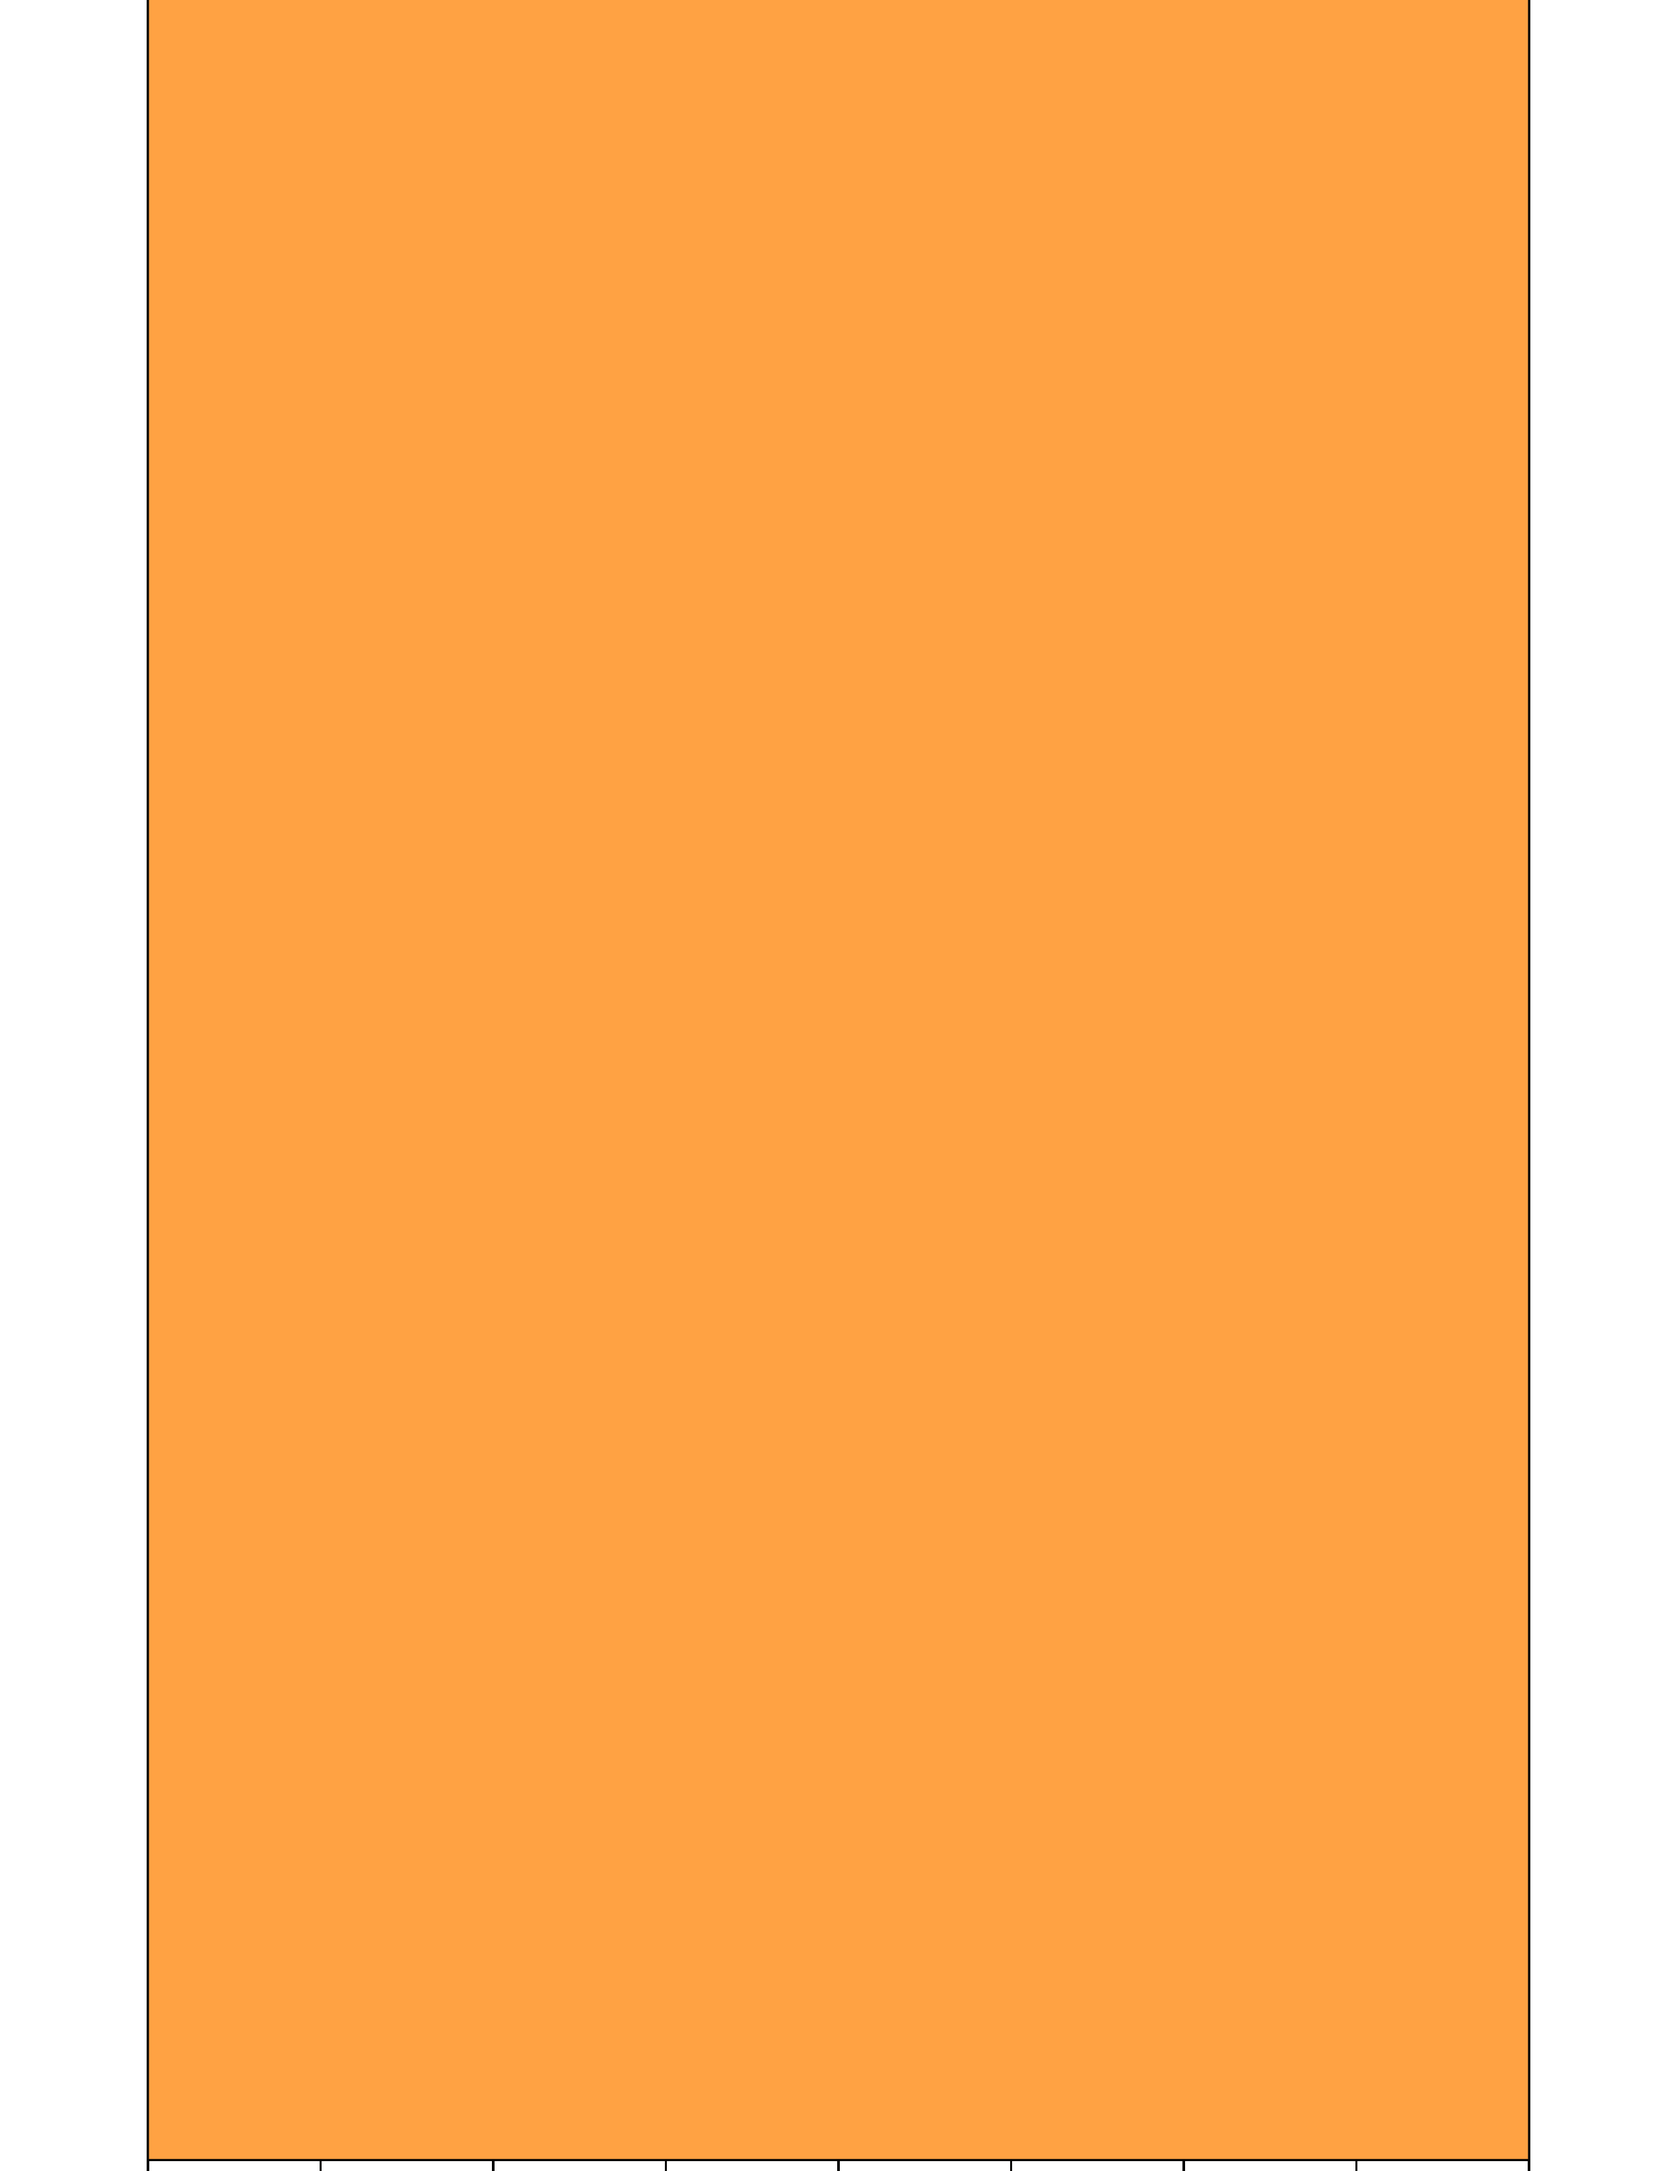
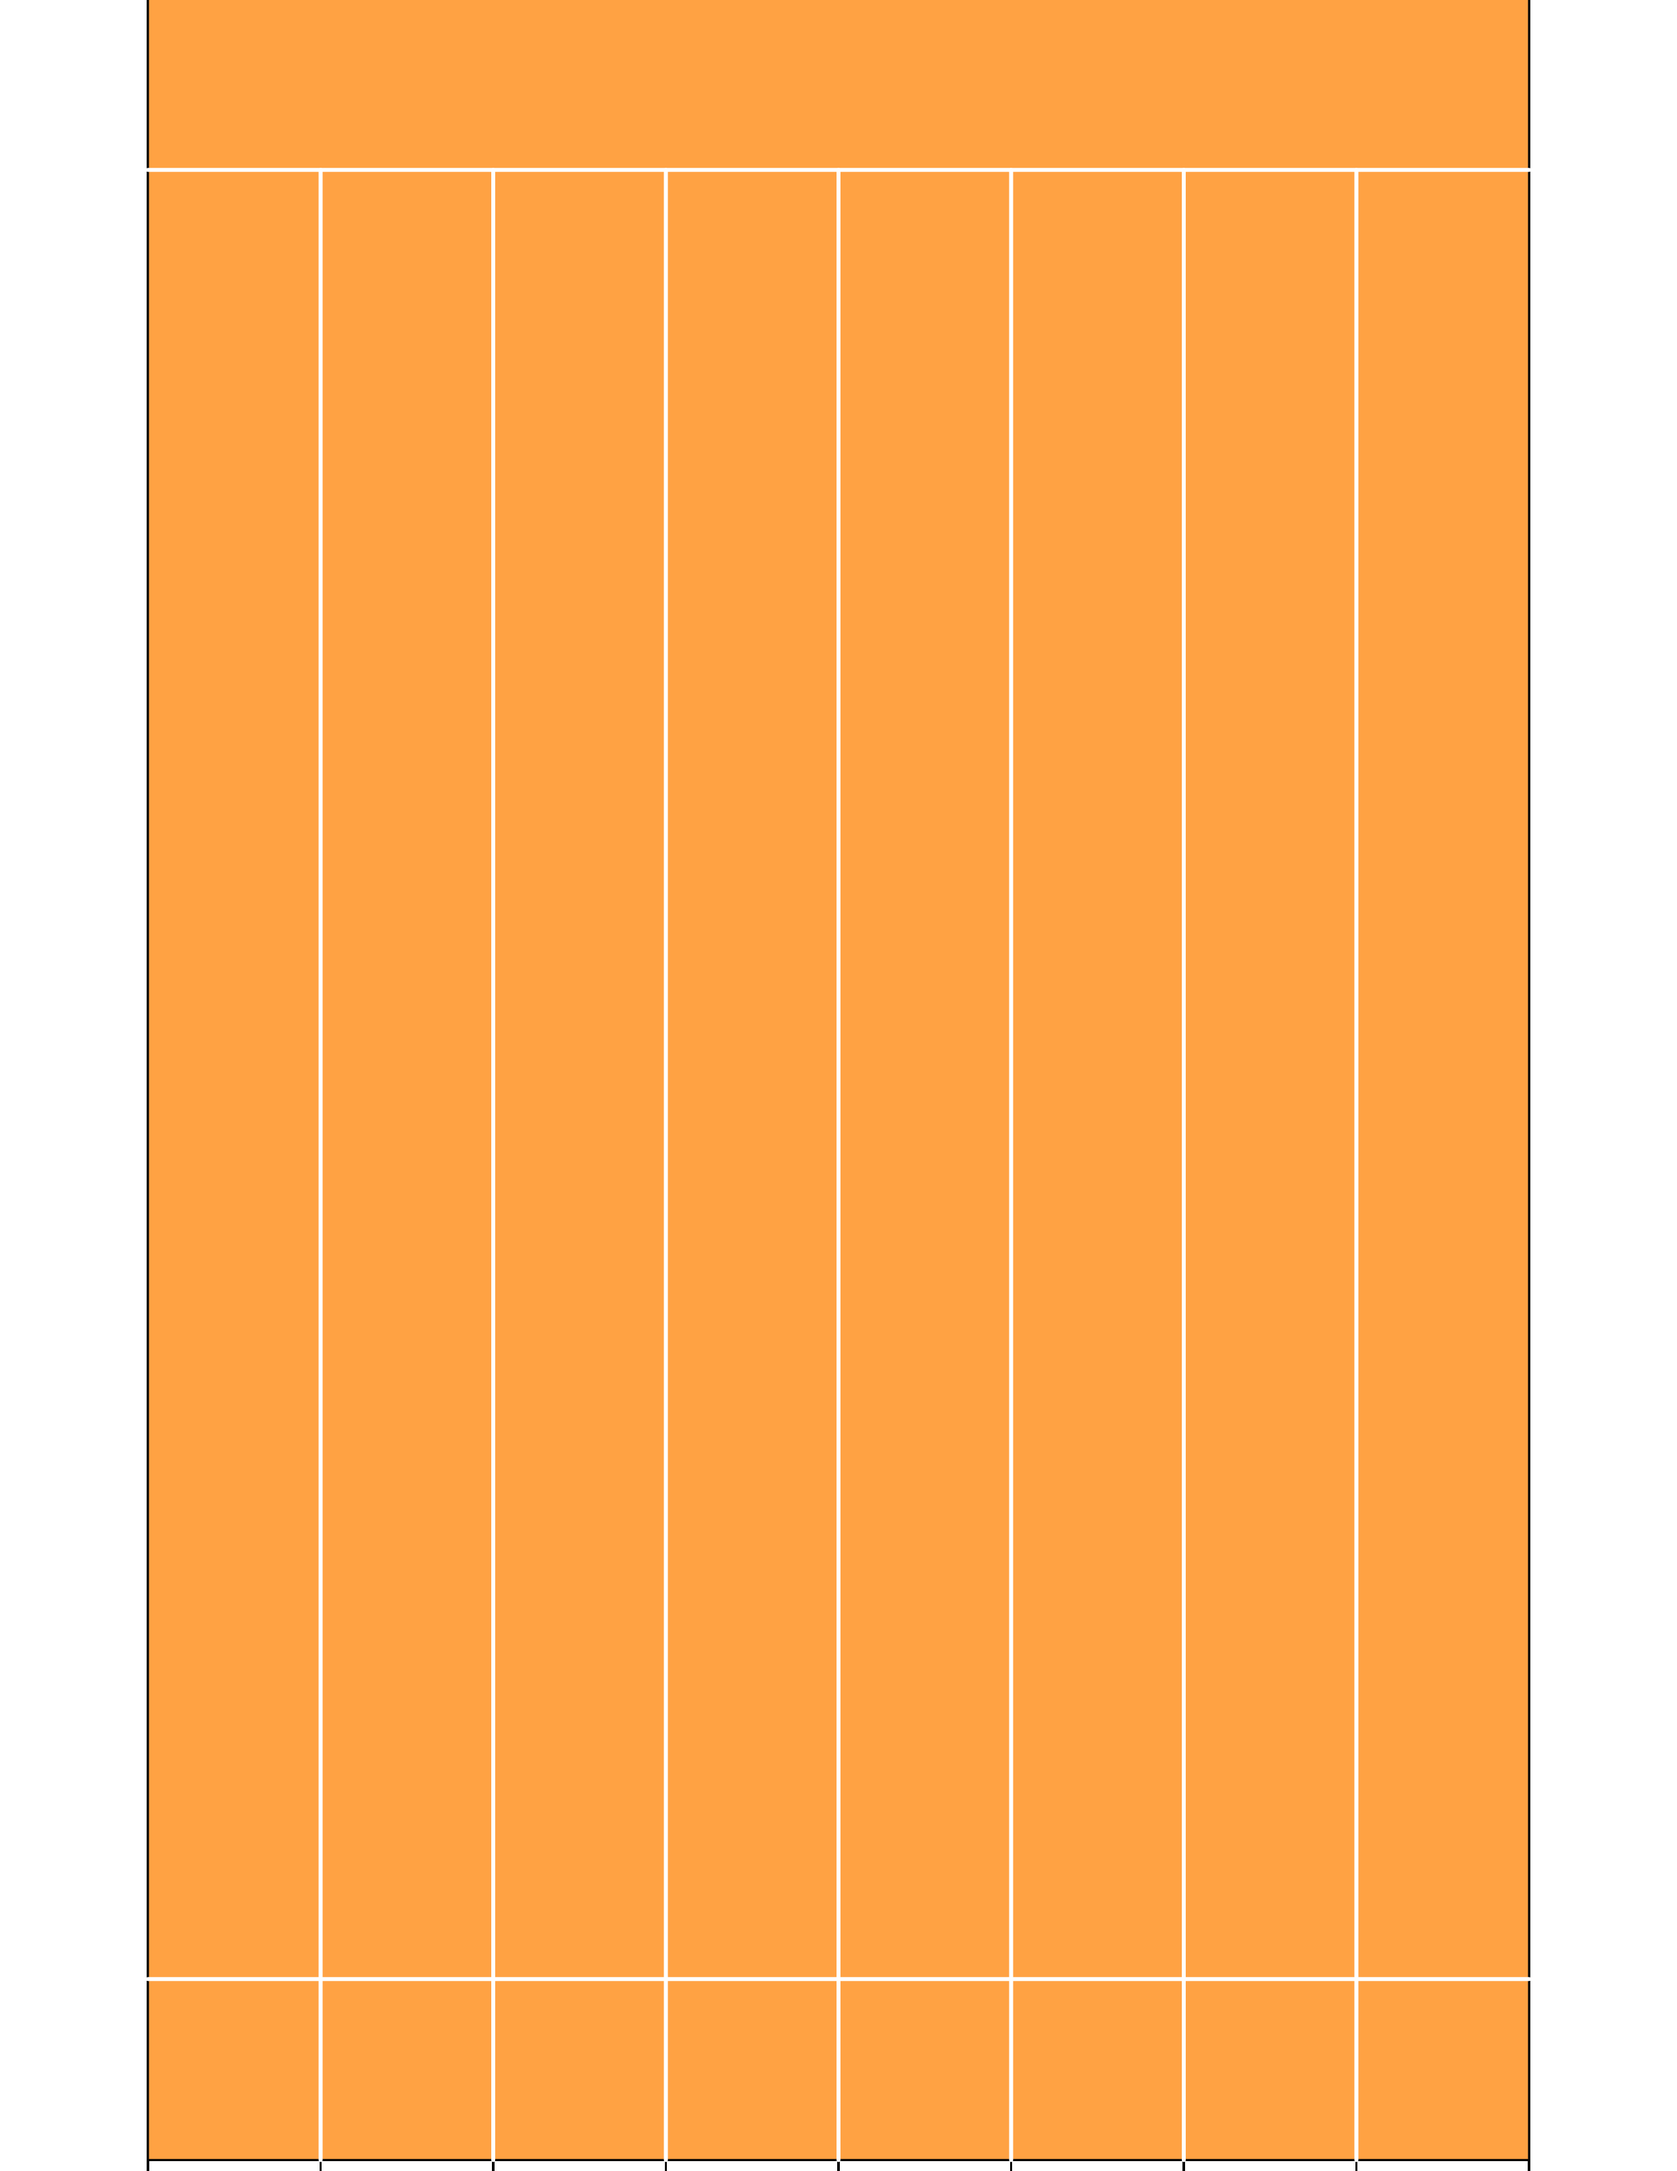
Added Lane, start, and finish lines

diff --git a/src/tracksplits.cpp b/src/tracksplits.cpp
@@ -12,10 +12,17 @@ void plotTrack(int lanes, vector <float> color) {
     printf("min 0 max 100 size 7 \n");
     printf("no_auto_hash_labels mhash 0 hash %f\n", 100.0/lanes);
     printf("yaxis\n");
-    printf("min 0 max 110 size 11\n");
+    printf("min 0 max 120 size 11\n");
     printf("nodraw\n");
-    printf("newcurve marktype box marksize 100 110 cfill %f %f %f pts 50 55\n", color[0], color[1], color[2]);  
-
+    printf("newcurve marktype box marksize 100 120 cfill %f %f %f pts 50 60\n", color[0], color[1], color[2]);  
+    // Let's draw the lanes vertically and white
+    for (int i = 1; i < lanes; i++) {
+        printf("newline pts %f %f %f %f color 1 1 1 linethickness 2\n", 100.0/lanes*i, 0.0, 100.0/lanes*i, 110.0);
+    }
+    // Horizontal Finish Line
+    printf("newline pts 0 110 100 110 color 1 1 1 linethickness 2\n");
+    // Horizontal Start Line 
+    printf("newline pts 0 10 100 10 color 1 1 1 linethickness 2\n");
 }
 
 
